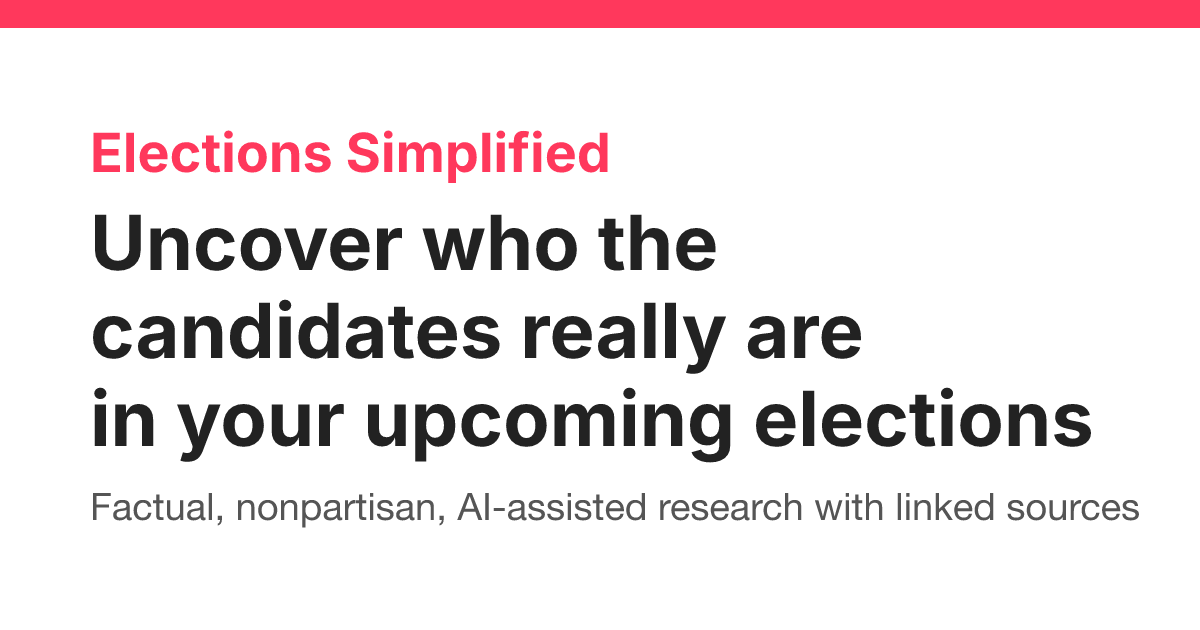
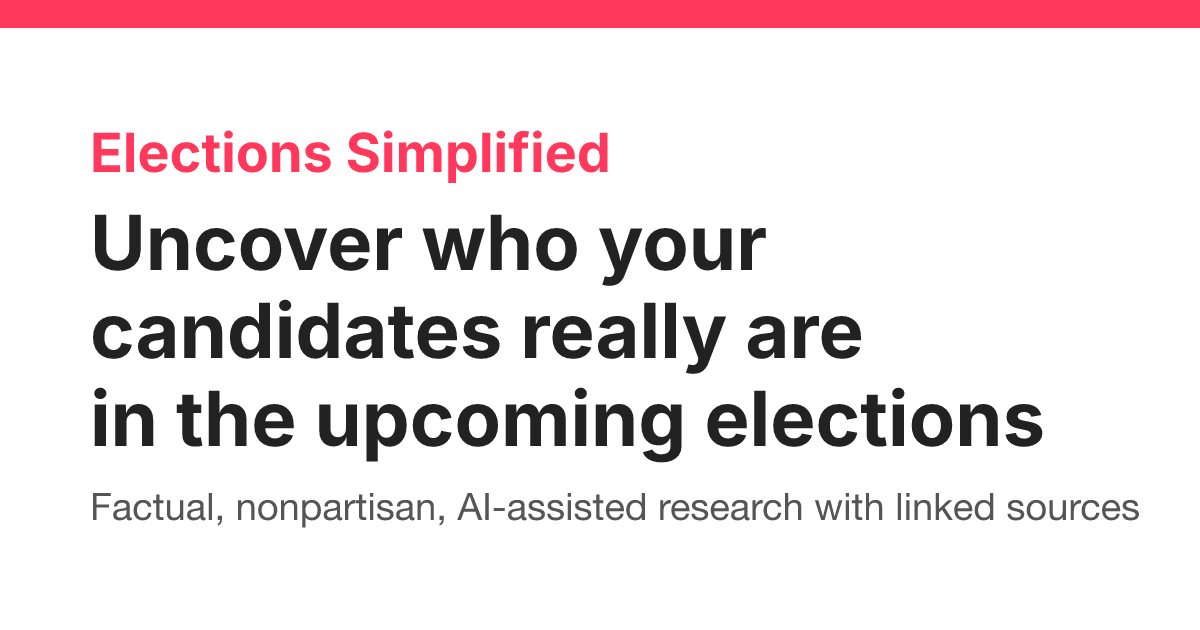
Landing headline: "Uncover who your candidates really are in the upcoming elections"
Same change in the default description, the og:image alt, and the
re-rendered og-card.png. The image URL stays at ?v=4: that version has not
shipped, so no scraper has cached it.

Changed region(s): [[0.1542, 0.6032, 0.925, 0.754], [0.4933, 0.3317, 0.6475, 0.4524]]

diff --git a/frontend/src/lib/pageMeta.ts b/frontend/src/lib/pageMeta.ts
@@ -23,10 +23,10 @@ export const SITE_ORIGIN = "https://electionssimplified.com";
 // Facebook, Slack) cache the image by URL, so a same-URL replacement keeps
 // showing the old picture for weeks.
 const SHARE_IMAGE = `${SITE_ORIGIN}/og-card.png?v=4`;
-const SHARE_IMAGE_ALT = `${APP_NAME} — uncover who the candidates really are in your upcoming elections`;
+const SHARE_IMAGE_ALT = `${APP_NAME} — uncover who your candidates really are in the upcoming elections`;
 
 export const DEFAULT_DESCRIPTION =
-  "Uncover who the candidates really are in your upcoming elections.";
+  "Uncover who your candidates really are in the upcoming elections.";
 
 type PageMetaInput = {
   title: string;

diff --git a/frontend/src/components/LandingHero.tsx b/frontend/src/components/LandingHero.tsx
@@ -38,7 +38,7 @@ export function LandingHero({ framed = false }: { framed?: boolean }) {
             a page heading; text-balance stops the centred wrap from ragging
             into a one-word last line. */}
         <h1 className="text-balance text-[clamp(1.4375rem,1.1875rem+1.25vw,2.1875rem)] font-bold leading-[1.2]">
-          Uncover who the candidates really are in your upcoming elections
+          Uncover who your candidates really are in the upcoming elections
         </h1>
         {/* What the service is, where a first-time visitor actually looks.
             Centred with the rest of the masthead — one alignment axis for

diff --git a/frontend/src/pages/EmbedHomePage.test.tsx b/frontend/src/pages/EmbedHomePage.test.tsx
@@ -26,7 +26,7 @@ describe("EmbedHomePage", () => {
   it("opens the box on the site's landing page without taking focus from the host page", async () => {
     renderHome();
     expect(await screen.findByRole("heading", { level: 1 })).toHaveTextContent(
-      "Uncover who the candidates really are in your upcoming elections"
+      "Uncover who your candidates really are in the upcoming elections"
     );
     expect(screen.getByText("Factual, nonpartisan, AI-assisted research with linked sources")).toBeInTheDocument();
     const field = screen.getByLabelText("Enter address to see which elections you can vote in:");

diff --git a/frontend/src/pages/HomePage.test.tsx b/frontend/src/pages/HomePage.test.tsx
@@ -83,7 +83,7 @@ describe("HomePage pre-search clickwrap", () => {
     // is the first thing on the page and its sole h1.
     expect(screen.queryByText("Elections Simplified")).not.toBeInTheDocument();
     expect(screen.getByRole("heading", { level: 1 })).toHaveTextContent(
-      /^Uncover who the candidates really are in your upcoming elections$/
+      /^Uncover who your candidates really are in the upcoming elections$/
     );
   });
 
